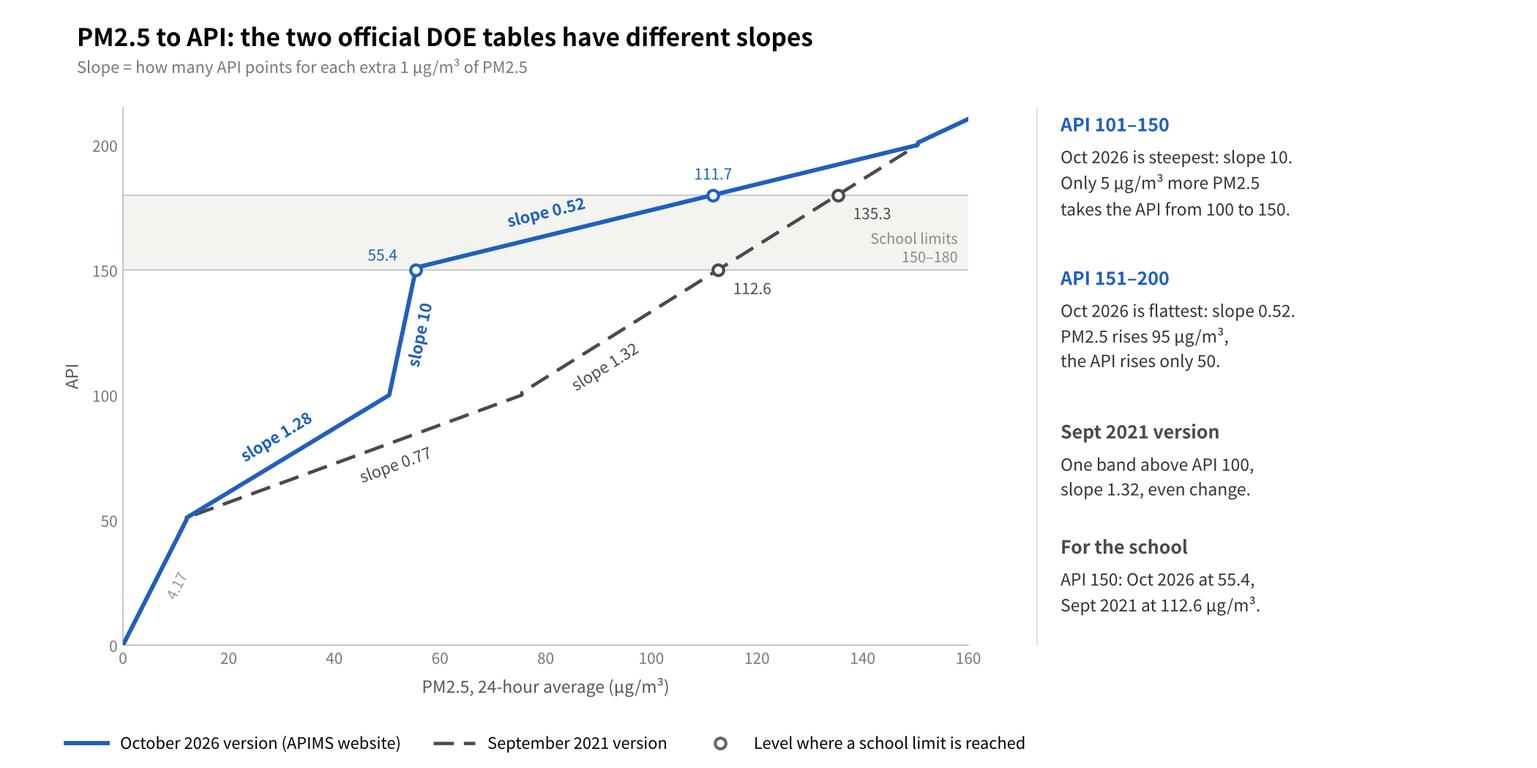
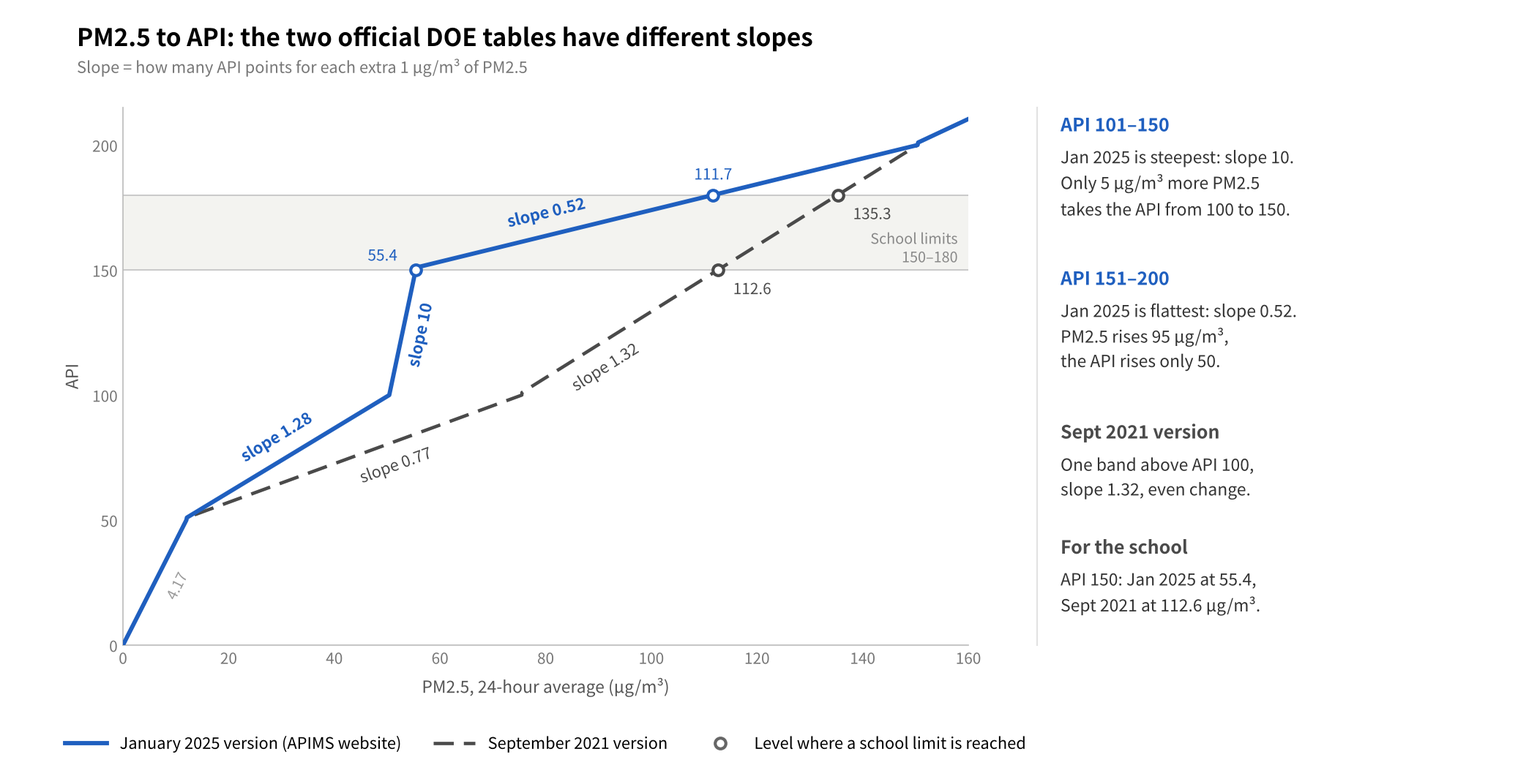
Name the APIMS conversion table the January 2025 version (date inside the PDF; the file has been online unchanged since at least June 2026)
Claude-Session: https://claude.ai/code/session_01JQEfHtWNDhRvxbmUmViWBA

diff --git a/docs/api-en.html b/docs/api-en.html
@@ -175,7 +175,7 @@
 <li><strong>Not published:</strong> the hourly PM2.5 concentration in micrograms per cubic metre. Assoc. Prof. Helena Varkkey of Universiti Malaya has noted that the government holds these data but does not release them <span class="cite">[<a href="#ref-4">4</a>]</span>.</li>
 </ul>
 <p>The public therefore sees only the smoothed 24-hour figure, and not the hourly readings that would show the current state of the air.</p>
-<p><strong>A caveat:</strong> the DOE has issued two official versions of its calculation document: a September 2021 version on the DOE website, and a version published on 14 October 2026 on the APIMS website. Their PM2.5 values differ <span class="cite">[<a href="#ref-1">1</a>, <a href="#ref-2">2</a>]</span> (see Appendix A). This article follows the newer October 2026 version. The difference does not affect the main conclusion, namely that the 24-hour average delays the API.</p>
+<p><strong>A caveat:</strong> the DOE has issued two official versions of its calculation document: a September 2021 version on the DOE website, and a January 2025 version on the APIMS website. Their PM2.5 values differ <span class="cite">[<a href="#ref-1">1</a>, <a href="#ref-2">2</a>]</span> (see Appendix A). This article follows the newer January 2025 version. The difference does not affect the main conclusion, namely that the 24-hour average delays the API.</p>
 
 <h2>5 Why a 24-hour average lags behind</h2>
 <p>A 24-hour rolling average replaces only one twenty-fourth of its data each hour. It therefore takes about a day to reflect the full effect of new haze, and about a day to recover once the haze has cleared.</p>
@@ -191,7 +191,7 @@
 <ul>
 <li>At 2:00 pm on 17 October, the average API of the four stations was 150. This figure represents the air from 3:00 pm on 16 October to 2:00 pm on 17 October, not only the air at 2:00 pm.</li>
 <li>At 10:00 am on 18 October, the average was still 139, only 11 points below the previous afternoon. Even when the air improves, the index declines slowly.</li>
-<li><strong>An exception:</strong> under the October 2026 conversion table, the entire range from API 101 to 150 corresponds to only about 5 µg/m³ of PM2.5, so the API can change very quickly within this range. Between 4:00 pm and 8:00 pm on 16 October, the Kuala Selangor station fell from 152 to 99. Near 150, a very small change in concentration is enough to move the API across that value.</li>
+<li><strong>An exception:</strong> under the January 2025 conversion table, the entire range from API 101 to 150 corresponds to only about 5 µg/m³ of PM2.5, so the API can change very quickly within this range. Between 4:00 pm and 8:00 pm on 16 October, the Kuala Selangor station fell from 152 to 99. Near 150, a very small change in concentration is enough to move the API across that value.</li>
 </ul>
 <h3>5.2 Hourly readings at the four stations</h3>
 <p>The figure below shows all hourly API readings at the four stations from the evening of 8 October to 11:00 am on 18 October <span class="cite">[<a href="#ref-12">12</a>]</span>. The light blue band marks the range from API 100 to 150.</p>
@@ -271,9 +271,9 @@
 <li><strong>Official practice elsewhere.</strong> Singapore's National Environment Agency advises using the 1-hour PM2.5 reading for immediate activities and the 24-hour PSI forecast for planning the next day. Official maps in the United States show the NowCast as the current value.</li>
 <li><strong>Academic views.</strong> Dr Fatimah Ahamad of Sunway University told SAYS that a longer averaging period reflects cumulative health risk, but may mask a haze episode that is still developing <span class="cite">[<a href="#ref-4">4</a>]</span>.</li>
 <li><strong>Figures from foreign apps cannot be compared directly with the API.</strong> In October 2026 the DOE explained that the scales, averaging periods and update intervals differ <span class="cite">[<a href="#ref-5">5</a>]</span>.</li>
-<li><strong>The sensitivity differs between parts of the conversion table.</strong> Under the October 2026 version, the band from API 101 to 150 is very steep: a change of only about 5 µg/m³ of PM2.5 moves the API between 100 and 150. This applies to rises and falls alike, so within this band small changes appear large. The band from API 151 to 200 is flat: when PM2.5 rises from 60 to 110 µg/m³, almost doubling, the API rises only from about 153 to 179, so changes during severe haze appear small. On the evening of 16 October, for example, the Kuala Selangor station fell from 152 to 99 within four hours, while the PM2.5 derived from the table fell only from about 57 to about 50 µg/m³.</li>
-<li><strong>Compared with the older version, the new one reaches the thresholds earlier.</strong> For PM2.5 between about 50 and 150 µg/m³, the October 2026 version gives a higher API than the September 2021 version. Under the new version, the school threshold of 150 corresponds to a 24-hour average PM2.5 of about 55 µg/m³ and the threshold of 180 to about 112 µg/m³; under the older version the figures are about 113 and 135.</li>
-<li><strong>Comparison with health standards.</strong> The World Health Organization does not publish an index like the API; it sets guideline values for PM2.5 concentration: 15 µg/m³ for the 24-hour average and 5 µg/m³ for the annual average, together with four interim targets <span class="cite">[<a href="#ref-13">13</a>]</span>. Malaysia's 2020 ambient air quality standard for the 24-hour average is 35 µg/m³ <span class="cite">[<a href="#ref-14">14</a>]</span>. Under the October 2026 version, API 100, the upper limit of "Moderate", corresponds to 50.4 µg/m³, which is above both Malaysia's own 2020 standard and the WHO guideline value (Table 4).</li>
+<li><strong>The sensitivity differs between parts of the conversion table.</strong> Under the January 2025 version, the band from API 101 to 150 is very steep: a change of only about 5 µg/m³ of PM2.5 moves the API between 100 and 150. This applies to rises and falls alike, so within this band small changes appear large. The band from API 151 to 200 is flat: when PM2.5 rises from 60 to 110 µg/m³, almost doubling, the API rises only from about 153 to 179, so changes during severe haze appear small. On the evening of 16 October, for example, the Kuala Selangor station fell from 152 to 99 within four hours, while the PM2.5 derived from the table fell only from about 57 to about 50 µg/m³.</li>
+<li><strong>Compared with the older version, the new one reaches the thresholds earlier.</strong> For PM2.5 between about 50 and 150 µg/m³, the January 2025 version gives a higher API than the September 2021 version. Under the new version, the school threshold of 150 corresponds to a 24-hour average PM2.5 of about 55 µg/m³ and the threshold of 180 to about 112 µg/m³; under the older version the figures are about 113 and 135.</li>
+<li><strong>Comparison with health standards.</strong> The World Health Organization does not publish an index like the API; it sets guideline values for PM2.5 concentration: 15 µg/m³ for the 24-hour average and 5 µg/m³ for the annual average, together with four interim targets <span class="cite">[<a href="#ref-13">13</a>]</span>. Malaysia's 2020 ambient air quality standard for the 24-hour average is 35 µg/m³ <span class="cite">[<a href="#ref-14">14</a>]</span>. Under the January 2025 version, API 100, the upper limit of "Moderate", corresponds to 50.4 µg/m³, which is above both Malaysia's own 2020 standard and the WHO guideline value (Table 4).</li>
 </ul>
 <p class="tcap"><b>Table 4.</b>　Reference values for 24-hour average PM2.5 (µg/m³)</p>
 
@@ -306,11 +306,11 @@
 <td>50</td>
 </tr>
 <tr>
-<td>API 100 (October 2026 version)</td>
+<td>API 100 (January 2025 version)</td>
 <td>50.4</td>
 </tr>
 <tr>
-<td>API 150, school threshold (October 2026 version)</td>
+<td>API 150, school threshold (January 2025 version)</td>
 <td>55.4</td>
 </tr>
 <tr>
@@ -318,7 +318,7 @@
 <td>75</td>
 </tr>
 <tr>
-<td>API 180, school threshold (October 2026 version)</td>
+<td>API 180, school threshold (January 2025 version)</td>
 <td>about 112</td>
 </tr>
 </tbody>
@@ -384,7 +384,7 @@
 <ul>
 <li>The data cover only 8 to 18 October 2026, about ten days, at four monitoring stations.</li>
 <li>The DOE publishes only the API and not hourly PM2.5 concentrations. All concentrations mentioned in this article are derived from the API using the conversion table.</li>
-<li>The DOE has not stated from which date the new conversion table has been used to calculate the API. The data checks in this article show that the readings from 10 to 18 October fit the October 2026 version but not the September 2021 version, which suggests that the new table was in use before the document was published.</li>
+<li>The DOE has not stated from which date the new conversion table has been used to calculate the API. The data checks in this article show that the readings from 10 to 18 October fit the January 2025 version but not the September 2021 version. The document has been online, unchanged, since at least June 2026.</li>
 <li>The link between the Kuala Selangor readings and sea breezes is a conjecture that has not been verified against wind data.</li>
 <li>The author is not an air-quality specialist. In case of any discrepancy, the DOE's information takes precedence.</li>
 </ul>
@@ -399,7 +399,7 @@
 
 <h2>References</h2>
 <ol class="refs">
-<li id="ref-1">Department of Environment Malaysia: <a href="https://eqms.doe.gov.my/Documents/APIMS/API_Calculation.pdf">API Calculation (version of 14 October 2026, APIMS website)</a></li>
+<li id="ref-1">Department of Environment Malaysia: <a href="https://eqms.doe.gov.my/Documents/APIMS/API_Calculation.pdf">API Calculation (January 2025 version, APIMS website)</a></li>
 <li id="ref-2">Department of Environment Malaysia: <a href="https://www.doe.gov.my/wp-content/uploads/2021/09/API_Calculation.pdf">API Calculation (September 2021 version, DOE website)</a></li>
 <li id="ref-3">Department of Environment Malaysia: <a href="https://www.doe.gov.my/en/2021/10/26/english-air-pollutant-index-api-2/">Air Pollutant Index (API)</a></li>
 <li id="ref-4">SAYS (28 August 2026): <a href="https://says.com/my/news/aqi-api-explaining-malaysias-air-quality-confusion">Malaysia Once Made CNN Apologise For Its Haze Coverage</a> (views of Varkkey and Fatimah)</li>
@@ -424,14 +424,14 @@
 <li>C_low, C_high: the lower and upper concentration limits of the band</li>
 <li>I_low, I_high: the lower and upper index values of the band</li>
 </ul>
-<p>The DOE has issued two official documents: a September 2021 version on the DOE website and a version dated 14 October 2026 on the APIMS website. They differ in the PM2.5 bands between API 100 and 200 <span class="cite">[<a href="#ref-1">1</a>, <a href="#ref-2">2</a>]</span>, which is precisely the range most often observed during haze:</p>
+<p>The DOE has issued two official documents: a September 2021 version on the DOE website and a January 2025 version on the APIMS website. They differ in the PM2.5 bands between API 100 and 200 <span class="cite">[<a href="#ref-1">1</a>, <a href="#ref-2">2</a>]</span>, which is precisely the range most often observed during haze:</p>
 <p class="tcap"><b>Table 6.</b>　PM2.5 bands in the two DOE conversion tables (µg/m³)</p>
 
 <div class="tw"><table>
 <thead>
 <tr>
 <th>API band</th>
-<th>October 2026 version (µg/m³)</th>
+<th>January 2025 version (µg/m³)</th>
 <th>September 2021 version (µg/m³)</th>
 </tr>
 </thead>
@@ -475,10 +475,10 @@
 </table></div>
 <figure><a href="img/api_slopes_en.png"><img src="img/api_slopes_en.png" alt="Slopes of the two PM2.5 tables" loading="lazy"></a><figcaption><b>Figure 3.</b> Slopes of the two official DOE PM2.5 tables, drawn to the same scale.</figcaption></figure>
 
-<p>The slope is the number of API points added for each additional µg/m³ of PM2.5. The October 2026 version is steepest between API 101 and 150 (slope 10) and flattest between 151 and 200 (slope 0.52), whereas the September 2021 version has a single band above API 100 with a slope of 1.32.</p>
+<p>The slope is the number of API points added for each additional µg/m³ of PM2.5. The January 2025 version is steepest between API 101 and 150 (slope 10) and flattest between 151 and 200 (slope 0.52), whereas the September 2021 version has a single band above API 100 with a slope of 1.32.</p>
 <p>As an example, consider a 24-hour average PM2.5 concentration of 100 µg/m³:</p>
 <ul>
-<li>October 2026 version: SI = 49 ÷ 94.9 × (100 − 55.5) + 151 ≈ 174</li>
+<li>January 2025 version: SI = 49 ÷ 94.9 × (100 − 55.5) + 151 ≈ 174</li>
 <li>September 2021 version: SI = 99 ÷ 74.9 × (100 − 75.5) + 101 ≈ 133</li>
 </ul>
 <p>The same concentration therefore yields two results that differ by about 40 points.</p>

diff --git a/docs/api-zh.html b/docs/api-zh.html
@@ -179,7 +179,7 @@
 <li><strong>没有公布：</strong> 每小时的 PM2.5 浓度（单位：微克/立方米）。马来亚大学的 Helena Varkkey 副教授指出，政府手上有每小时数据，只是没有对外公布<span class="cite">[<a href="#ref-4">4</a>]</span>。</li>
 </ul>
 <p>所以，一般公众只能看到 24 小时平均后的 API。看不到“这一个小时”的空气有多差。</p>
-<p><strong>一个需要注意的地方：</strong> 环境局有两份官方《API 计算》文件：2021 年 9 月版本（环境局网站）和 2026 年 10 月 14 日发布的版本（APIMS 网站）。两者的 PM2.5 换算数字不一样<span class="cite">[<a href="#ref-1">1</a>, <a href="#ref-2">2</a>]</span>（见附录 A）。本文以较新的 2026 年 10 月版本为准。这不影响本文的主要结论：24 小时平均会带来滞后。</p>
+<p><strong>一个需要注意的地方：</strong> 环境局有两份官方《API 计算》文件：2021 年 9 月版本（环境局网站）和 2025 年 1 月版本（APIMS 网站）。两者的 PM2.5 换算数字不一样<span class="cite">[<a href="#ref-1">1</a>, <a href="#ref-2">2</a>]</span>（见附录 A）。本文以较新的 2025 年 1 月版本为准。这不影响本文的主要结论：24 小时平均会带来滞后。</p>
 
 <h2>5 为什么 24 小时平均会“慢半拍”</h2>
 <p>24 小时滚动平均每小时只换掉二十四分之一的数据。所以烟霾来了，要约一天才完全反映；烟霾走了，也要约一天才消失。</p>
@@ -195,7 +195,7 @@
 <ul>
 <li>10 月 17 日下午 2 时，四站平均 API 是 150。这个数字代表 16 日下午 3 时至 17 日下午 2 时的空气，不只是 17 日下午的空气。</li>
 <li>到 18 日早上 10 时，平均还有 139，只比前一天下午低 11 点。空气即使已经好转，数字也是慢慢下降。</li>
-<li><strong>例外：</strong> 按 2026 年 10 月版本的换算表，API 101 至 150 只对应约 5 微克/立方米的浓度差。所以 API 在这一段可以变得很快。例如 10 月 16 日下午 4 时至晚上 8 时，瓜拉雪兰莪站从 152 降到 99。在 150 附近，很小的浓度变化就足以使 API 跨过这个数值。</li>
+<li><strong>例外：</strong> 按 2025 年 1 月版本的换算表，API 101 至 150 只对应约 5 微克/立方米的浓度差。所以 API 在这一段可以变得很快。例如 10 月 16 日下午 4 时至晚上 8 时，瓜拉雪兰莪站从 152 降到 99。在 150 附近，很小的浓度变化就足以使 API 跨过这个数值。</li>
 </ul>
 <h3>5.2 四个站的每小时数据</h3>
 <p>下图是 10 月 8 日晚上至 18 日上午 11 时，四个站全部的每小时 API<span class="cite">[<a href="#ref-12">12</a>]</span>。浅蓝色带标出 API 100 至 150 这一段。</p>
@@ -275,9 +275,9 @@
 <li><strong>其他地方的官方做法。</strong> 新加坡国家环境局的说法是：即时活动参考 1 小时 PM2.5，次日计划参考 24 小时 PSI 预报。美国的官方地图以 NowCast 显示“现在”的数字。</li>
 <li><strong>学者的看法。</strong> 双威大学的 Fatimah Ahamad 博士在接受 SAYS 访问时表示，较长的平均时间能反映累积的健康风险，但在烟霾突然加重时，可能掩盖正在形成的烟霾<span class="cite">[<a href="#ref-4">4</a>]</span>。</li>
 <li><strong>外国 App 的数字与 API 不能直接比较。</strong> 环境局在 2026 年 10 月说明，两者的标准、平均时间和更新时间都不同<span class="cite">[<a href="#ref-5">5</a>]</span>。</li>
-<li><strong>换算表各段的敏感度不同。</strong> 按 2026 年 10 月版本，API 101–150 这一段很陡：PM2.5 只要变化约 5 微克/立方米，API 就会在 100 和 150 之间移动。上升和下降都一样，所以在这一段，小变化看起来像大变化。API 151–200 这一段则很平：PM2.5 从 60 升到 110，几乎翻倍，API 只从约 153 升到 179，所以严重烟霾时的变化看起来较小。例如 10 月 16 日傍晚，瓜拉雪兰莪站 4 小时内从 152 降到 99，按换算表反推，PM2.5 只从约 57 降到约 50。</li>
-<li><strong>与旧版本相比，新版本较早触发界线。</strong> 在 PM2.5 约 50 至 150 微克/立方米之间，2026 年 10 月版本算出的 API 都比 2021 年 9 月版本高。按新版本，学校的 150 界线相当于 PM2.5 24 小时平均约 55 微克/立方米，180 界线约 112 微克/立方米；按旧版本则分别约 113 和 135。</li>
-<li><strong>与健康标准的对照。</strong> 世界卫生组织没有类似 API 的指数，而是订出 PM2.5 浓度的指引值：24 小时平均 15 微克/立方米，年平均 5 微克/立方米，另有四级过渡目标<span class="cite">[<a href="#ref-13">13</a>]</span>。马来西亚 2020 年的环境空气质量标准是 24 小时平均 35 微克/立方米<span class="cite">[<a href="#ref-14">14</a>]</span>。按 2026 年 10 月版本，API 100（“中等”的上限）相当于 50.4 微克/立方米，高于马来西亚本身的 2020 年标准，也高于世界卫生组织的指引值（表 4）。</li>
+<li><strong>换算表各段的敏感度不同。</strong> 按 2025 年 1 月版本，API 101–150 这一段很陡：PM2.5 只要变化约 5 微克/立方米，API 就会在 100 和 150 之间移动。上升和下降都一样，所以在这一段，小变化看起来像大变化。API 151–200 这一段则很平：PM2.5 从 60 升到 110，几乎翻倍，API 只从约 153 升到 179，所以严重烟霾时的变化看起来较小。例如 10 月 16 日傍晚，瓜拉雪兰莪站 4 小时内从 152 降到 99，按换算表反推，PM2.5 只从约 57 降到约 50。</li>
+<li><strong>与旧版本相比，新版本较早触发界线。</strong> 在 PM2.5 约 50 至 150 微克/立方米之间，2025 年 1 月版本算出的 API 都比 2021 年 9 月版本高。按新版本，学校的 150 界线相当于 PM2.5 24 小时平均约 55 微克/立方米，180 界线约 112 微克/立方米；按旧版本则分别约 113 和 135。</li>
+<li><strong>与健康标准的对照。</strong> 世界卫生组织没有类似 API 的指数，而是订出 PM2.5 浓度的指引值：24 小时平均 15 微克/立方米，年平均 5 微克/立方米，另有四级过渡目标<span class="cite">[<a href="#ref-13">13</a>]</span>。马来西亚 2020 年的环境空气质量标准是 24 小时平均 35 微克/立方米<span class="cite">[<a href="#ref-14">14</a>]</span>。按 2025 年 1 月版本，API 100（“中等”的上限）相当于 50.4 微克/立方米，高于马来西亚本身的 2020 年标准，也高于世界卫生组织的指引值（表 4）。</li>
 </ul>
 <p class="tcap"><b>表 4</b>　PM2.5 24 小时平均的参考数值（微克/立方米）</p>
 
@@ -310,11 +310,11 @@
 <td>50</td>
 </tr>
 <tr>
-<td>API 100（2026 年 10 月版本）</td>
+<td>API 100（2025 年 1 月版本）</td>
 <td>50.4</td>
 </tr>
 <tr>
-<td>API 150，学校界线（2026 年 10 月版本）</td>
+<td>API 150，学校界线（2025 年 1 月版本）</td>
 <td>55.4</td>
 </tr>
 <tr>
@@ -322,7 +322,7 @@
 <td>75</td>
 </tr>
 <tr>
-<td>API 180，学校界线（2026 年 10 月版本）</td>
+<td>API 180，学校界线（2025 年 1 月版本）</td>
 <td>约 112</td>
 </tr>
 </tbody>
@@ -388,7 +388,7 @@
 <ul>
 <li>数据只涵盖 2026 年 10 月 8 日至 18 日，约 10 天，四个监测站。</li>
 <li>环境局只公布 API，没有公布每小时 PM2.5 浓度。本文提到的浓度，都是按换算表从 API 反推的。</li>
-<li>新换算表从哪一天开始用于计算 API，环境局没有说明。本文的数据检验显示，10 月 10 日至 18 日的读数都符合 2026 年 10 月版本，而不符合 2021 年 9 月版本；新换算表可能在文件发布之前已经使用。</li>
+<li>新换算表从哪一天开始用于计算 API，环境局没有说明。本文的数据检验显示，10 月 10 日至 18 日的读数都符合 2025 年 1 月版本，而不符合 2021 年 9 月版本。这份文件至少从 2026 年 6 月起已在网上，内容没有改变。</li>
 <li>瓜拉雪兰莪站与海风的关系只是推测，未用风向数据验证。</li>
 <li>作者不是空气质量专业人士。文中如有错误，请以环境局的资料为准。</li>
 </ul>
@@ -403,7 +403,7 @@
 
 <h2>参考文献</h2>
 <ol class="refs">
-<li id="ref-1">马来西亚环境局：<a href="https://eqms.doe.gov.my/Documents/APIMS/API_Calculation.pdf">API 计算（2026 年 10 月 14 日版本，APIMS 网站）</a></li>
+<li id="ref-1">马来西亚环境局：<a href="https://eqms.doe.gov.my/Documents/APIMS/API_Calculation.pdf">API 计算（2025 年 1 月版本，APIMS 网站）</a></li>
 <li id="ref-2">马来西亚环境局：<a href="https://www.doe.gov.my/wp-content/uploads/2021/09/API_Calculation.pdf">API 计算（2021 年 9 月版本，环境局网站）</a></li>
 <li id="ref-3">马来西亚环境局：<a href="https://www.doe.gov.my/en/2021/10/26/english-air-pollutant-index-api-2/">Air Pollutant Index (API) 说明页</a></li>
 <li id="ref-4">SAYS（2026 年 8 月 28 日）：<a href="https://says.com/my/news/aqi-api-explaining-malaysias-air-quality-confusion">Malaysia Once Made CNN Apologise For Its Haze Coverage</a>（Varkkey、Fatimah 的看法）</li>
@@ -428,14 +428,14 @@
 <li>C_low、C_high：该段的浓度下限和上限</li>
 <li>I_low、I_high：该段对应的指数下限和上限</li>
 </ul>
-<p>环境局先后发布了两份官方文件：2021 年 9 月版本放在环境局网站，2026 年 10 月 14 日的版本放在 APIMS 网站。两者的 PM2.5 分段不一样<span class="cite">[<a href="#ref-1">1</a>, <a href="#ref-2">2</a>]</span>，分歧在 API 100 至 200 之间，正好是烟霾时最常见的范围：</p>
+<p>环境局先后发布了两份官方文件：2021 年 9 月版本放在环境局网站，2025 年 1 月版本放在 APIMS 网站。两者的 PM2.5 分段不一样<span class="cite">[<a href="#ref-1">1</a>, <a href="#ref-2">2</a>]</span>，分歧在 API 100 至 200 之间，正好是烟霾时最常见的范围：</p>
 <p class="tcap"><b>表 6</b>　两份环境局 PM2.5 换算表的分段（微克/立方米）</p>
 
 <div class="tw"><table>
 <thead>
 <tr>
 <th>API 分段</th>
-<th>2026 年 10 月版本（微克/立方米）</th>
+<th>2025 年 1 月版本（微克/立方米）</th>
 <th>2021 年 9 月版本（微克/立方米）</th>
 </tr>
 </thead>
@@ -479,10 +479,10 @@
 </table></div>
 <figure><a href="img/api_slopes_zh.png"><img src="img/api_slopes_zh.png" alt="两份 PM2.5 换算表的斜率对比" loading="lazy"></a><figcaption><b>图 3</b> 环境局两份官方 PM2.5 换算表的斜率对比，按同一比例画出。</figcaption></figure>
 
-<p>斜率表示 PM2.5 每增加 1 微克/立方米，API 增加多少点。2026 年 10 月版本在 API 101–150 最陡（斜率 10），在 151–200 最平（斜率 0.52）；2021 年 9 月版本在 100 以上只有一段，斜率 1.32。</p>
+<p>斜率表示 PM2.5 每增加 1 微克/立方米，API 增加多少点。2025 年 1 月版本在 API 101–150 最陡（斜率 10），在 151–200 最平（斜率 0.52）；2021 年 9 月版本在 100 以上只有一段，斜率 1.32。</p>
 <p>例子：PM2.5 的 24 小时平均是 100 微克/立方米。</p>
 <ul>
-<li>按 2026 年 10 月版本：SI = 49 ÷ 94.9 × (100 − 55.5) + 151 ≈ 174</li>
+<li>按 2025 年 1 月版本：SI = 49 ÷ 94.9 × (100 − 55.5) + 151 ≈ 174</li>
 <li>按 2021 年 9 月版本：SI = 99 ÷ 74.9 × (100 − 75.5) + 101 ≈ 133</li>
 </ul>
 <p>同一个浓度，相差约 40 点。</p>

diff --git a/docs/sensor.html b/docs/sensor.html
@@ -118,7 +118,7 @@
         <li>aqicn reports the sensor as a US AQI number (US EPA 2016 scale). It is turned back into PM2.5 in µg/m³.</li>
         <li>The PM2.5 values of the last 3, 6 or 24 hours are averaged. A 3-hour average needs all 3 hours,
           a 6-hour average at least 5 hours, a 24-hour average at least 18 hours.</li>
-        <li>The average is turned into an API number with the DOE table of 14 October 2026 (the one on the APIMS website).</li>
+        <li>The average is turned into an API number with the DOE table of January 2025 (the one on the APIMS website).</li>
         <li>Above API 150 the two scales use the same PM2.5 bands, so there the hourly value is the same number on both scales.</li>
         <li>The sensor is not calibrated. Low-cost sensors can read high in very humid air. Until the comparison
           below has about two weeks of data, treat these numbers as a rough guide only.</li>
@@ -358,7 +358,7 @@
 
 
   // ---------- section 1: sensor on the DOE API scale ----------
-  // US EPA 2016 PM2.5 breakpoints (the scale aqicn uses) and the DOE table of 14 Oct 2026.
+  // US EPA 2016 PM2.5 breakpoints (the scale aqicn uses) and the DOE table of January 2025.
   var US = [[0,0],[12.0,50],[12.1,51],[35.4,100],[35.5,101],[55.4,150],[55.5,151],[150.4,200],[150.5,201],
             [250.4,300],[250.5,301],[350.4,400],[350.5,401],[500.4,500]];
   var DOE = [[0,0],[12.0,50],[12.1,51],[50.4,100],[50.5,101],[55.4,150],[55.5,151],[150.4,200],[150.5,201],

diff --git a/docs/forecast.html b/docs/forecast.html
@@ -286,7 +286,7 @@
           <li><b>Later days:</b> multiply by a mix of two factors: the newest real ratio of the station, and the haze factor.
             The newest ratio counts for about half on the next day, and less on each day after.</li>
         </ul></li>
-      <li><b>DOE formula.</b> Turn PM2.5 into API with the DOE table (the <a href="https://eqms.doe.gov.my/Documents/APIMS/API_Calculation.pdf">version of 14 October 2026</a> on the APIMS website).</li>
+      <li><b>DOE formula.</b> Turn PM2.5 into API with the DOE table (the <a href="https://eqms.doe.gov.my/Documents/APIMS/API_Calculation.pdf">January 2025 version</a> on the APIMS website).</li>
       <li><b>Average of the four stations.</b> Batu Muda, Petaling Jaya and Shah Alam lie in one CAMS square. They still get slightly different numbers, because each starts from its own real reading.</li>
     </ol>
   </section>

diff --git a/scripts/forecast.py b/scripts/forecast.py
@@ -64,7 +64,7 @@ def log(msg):
 # ---------------------------------------------------------------- DOE formula
 
 # DOE breakpoints: PM2.5 (24-hour, ug/m3) to API.
-# Source: DOE "API Calculation", version of 14 Oct 2026 on the APIMS portal
+# Source: DOE "API Calculation", January 2025 version on the APIMS portal
 # (eqms.doe.gov.my/Documents/APIMS/API_Calculation.pdf). Used here since 18 Oct 2026.
 # The older DOE version (doe.gov.my, Sept 2021) has 12.1-75.5 for API 51-100 and one
 # band 75.5-150.4 for API 101-200. The hourly DOE readings of 8-18 Oct fit the
